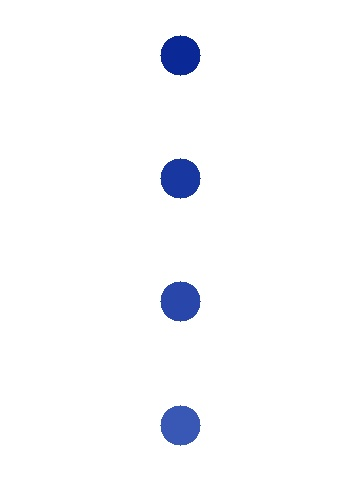
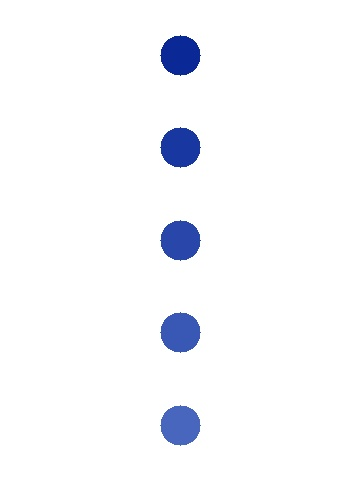
ai agent printing demo 2 colors

Changed region(s): [[0.4278, 0.25, 0.5806, 0.75]]

diff --git a/src/agents/vial_print_tools.py b/src/agents/vial_print_tools.py
@@ -106,6 +106,8 @@ def _apply_params(
     droplet_volume_ul: Optional[float] = None,
     num_replicates: Optional[int] = None,
     paper_start_column: Optional[int] = None,
+    orange_plate_column: Optional[int] = None,
+    blue_plate_column: Optional[int] = None,
     advanced_updates: Optional[dict] = None,
     default_folds: Optional[list] = None,
 ) -> Tuple[dict, list]:
@@ -164,6 +166,8 @@ def _apply_params(
             warnings.append(f"num_replicates {r} < 1; set to 1.")
             r = 1
         cfg["printing"]["num_replicates"] = r
+        for series in cfg.get("color_series", []) or []:
+            series["num_replicates"] = r
 
     # 4. Paper start column.
     if paper_start_column is not None:
@@ -173,13 +177,71 @@ def _apply_params(
             col = max(1, min(col, 12))
         cfg["printing"]["paper_start_column"] = col
 
-    # 5. Free-form nested overrides (any documented YAML key).
+    # 5. Per-color plate columns for the dual-color workflow.
+    requested_color_columns = {
+        "orange": orange_plate_column,
+        "blue": blue_plate_column,
+    }
+    for color, requested_col in requested_color_columns.items():
+        if requested_col is None:
+            continue
+        col = int(requested_col)
+        if not (1 <= col <= 12):
+            warnings.append(f"{color}_plate_column {col} out of range; clamped to [1, 12].")
+            col = max(1, min(col, 12))
+        matched = False
+        for series in cfg.get("color_series", []) or []:
+            if str(series.get("name", "")).lower() == color:
+                series["destination_column"] = str(col)
+                matched = True
+                break
+        if not matched:
+            warnings.append(
+                f"could not find {color!r} in color_series; plate column was not changed."
+            )
+
+    # 6. Free-form nested overrides (any documented YAML key).
     if advanced_updates:
         cfg = merge_user_updates(cfg, advanced_updates)
         # Re-sync the CV count if the caller changed the factor block directly.
         cfg.setdefault("cv", {})["expected_droplets"] = _num_dilutions(cfg)
 
     return cfg, warnings
+
+
+def _paper_columns(start_column, num_replicates) -> str:
+    start = int(start_column)
+    reps = int(num_replicates)
+    end = start + reps - 1
+    return str(start) if reps == 1 else f"{start}-{end}"
+
+
+def _resolve_series(cfg: dict) -> list[dict]:
+    """Return explicit color series, or a legacy single-series fallback."""
+    pr = cfg.get("printing", {})
+    series = copy.deepcopy(cfg.get("color_series") or [])
+    if series:
+        return series
+    sources = cfg.get("sources", {})
+    return [{
+        "name": "single",
+        "dye_vial": sources.get("food_coloring_vial", sources.get("blue_dye_vial", "A2")),
+        "destination_column": pr.get("source_column", cfg.get("dilution", {}).get("destination_column", "9")),
+        "setup_tip": cfg.get("dilution", {}).get("setup_tip", "H12"),
+        "print_block_column": pr.get("print_block_column", 1),
+        "paper_start_column": pr.get("paper_start_column", 1),
+        "num_replicates": pr.get("num_replicates", 1),
+    }]
+
+
+def _series_summary_line(series: dict) -> str:
+    return (
+        f"{series.get('name')} vial {series.get('dye_vial')} -> plate column "
+        f"{series.get('destination_column')} -> paper columns "
+        f"{_paper_columns(series.get('paper_start_column', 1), series.get('num_replicates', 1))}; "
+        f"stock tip {series.get('setup_tip')}, print block column "
+        f"{series.get('print_block_column')}"
+    )
 
 
 def _soft_validate(cfg: dict) -> list:
@@ -225,17 +287,28 @@ def _soft_validate(cfg: dict) -> list:
 def _summary(cfg: dict) -> str:
     dil = cfg.get("dilution", {})
     pr  = cfg.get("printing", {})
+    deck = cfg.get("deck", {})
+    sources = cfg.get("sources", {})
+    series = _resolve_series(cfg)
     factors = _resolve_factors(dil.get("factors", {}))
     folds = ", ".join(f"{f:g}x" for f in factors)
     rm = cfg.get("run_modes", {})
+    series_lines = "\n".join(f"    - {_series_summary_line(item)}" for item in series)
+    reps_summary = ", ".join(
+        f"{item.get('name')}={item.get('num_replicates')}" for item in series
+    )
     return (
         "Vial-dilution-print working config\n"
-        f"  Dilutions      : {len(factors)} wells in plate column {dil.get('destination_column')} "
-        f"(folds: {folds})\n"
+        f"  Deck           : vial rack slot {deck.get('tuberack', {}).get('slot')}, "
+        f"plate slot {deck.get('plate', {}).get('slot')}, paper slot "
+        f"{deck.get('paper', {}).get('slot')}, tips slot {deck.get('tiprack', {}).get('slot')}\n"
+        f"  Vials          : water {sources.get('water_vial')}, "
+        f"orange {sources.get('orange_dye_vial')}, blue {sources.get('blue_dye_vial')}\n"
+        f"  Dilutions      : {len(factors)} wells per color series (folds: {folds})\n"
+        f"  Color series   :\n{series_lines}\n"
         f"  Total / well   : {dil.get('total_volume_ul')} uL, mix {dil.get('mix_reps')}x\n"
         f"  Droplet volume : {pr.get('droplet_volume_ul')} uL/channel\n"
-        f"  Replicates     : {pr.get('num_replicates')} starting at paper column "
-        f"{pr.get('paper_start_column')} (x-spacing "
+        f"  Replicates     : {reps_summary} (x-spacing "
         f"{pr.get('replicate_spacing_mm', {}).get('x')} mm)\n"
         f"  Print release  : air gap {pr.get('air_gap_ul')} uL, z {pr.get('dispense_z_mm')} mm, "
         f"blow_out={pr.get('blow_out')}, dwell={pr.get('post_dispense_delay_s')} s\n"
@@ -319,6 +392,8 @@ def update_vial_print_params(
     droplet_volume_ul: Optional[float] = None,
     num_replicates: Optional[int] = None,
     paper_start_column: Optional[int] = None,
+    orange_plate_column: Optional[int] = None,
+    blue_plate_column: Optional[int] = None,
     advanced_updates: Optional[dict] = None,
 ) -> str:
     """Adjust the demo's parameters from natural language.
@@ -330,6 +405,8 @@ def update_vial_print_params(
         droplet_volume_ul: Volume dispensed per channel per replicate (uL).
         num_replicates: How many times the column is printed across the paper (>=1).
         paper_start_column: Leftmost paper column for the first replicate (1-12).
+        orange_plate_column: 96-well plate column for the orange dilution series (1-12).
+        blue_plate_column: 96-well plate column for the blue dilution series (1-12).
         advanced_updates: Optional nested dict for any other documented YAML key,
             e.g. {"dilution": {"total_volume_ul": 180}} or
             {"dilution": {"factors": {"explicit": [1, 3, 9, 27]}}}.
@@ -345,12 +422,15 @@ def update_vial_print_params(
         droplet_volume_ul,
         num_replicates,
         paper_start_column,
+        orange_plate_column,
+        blue_plate_column,
         advanced_updates,
     )):
         return "No changes requested. Current config:\n\n" + _summary(_WORKING)
     cfg, warnings = _apply_params(
         _WORKING, num_dilutions, droplet_volume_ul, num_replicates,
-        paper_start_column, advanced_updates, default_folds=_DEFAULT_FOLDS)
+        paper_start_column, orange_plate_column, blue_plate_column,
+        advanced_updates, default_folds=_DEFAULT_FOLDS)
     _WORKING = cfg
     out = ["Config updated.\n", _summary(cfg)]
     soft = _soft_validate(cfg)
@@ -373,15 +453,28 @@ def preview_dilution_plan() -> str:
         return "Error: no config loaded. Call load_vial_print_defaults first."
     dil = _WORKING.get("dilution", {})
     total = float(dil.get("total_volume_ul", 0) or 0)
-    col = dil.get("destination_column", "1")
     factors = _resolve_factors(dil.get("factors", {}))
-    lines = [f"Dilution plan (column {col}, {total:g} uL/well):"]
-    for i, f in enumerate(factors):
-        row = chr(ord("A") + i)
-        stock = round(total / f, 2) if f else 0.0
-        water = round(total - stock, 2)
-        flag = "  (below ~20 uL accurate min)" if 0 < stock < 20 else ""
-        lines.append(f"  {row}{col}: {f:g}x  stock={stock:g} uL  water={water:g} uL{flag}")
+    series = _resolve_series(_WORKING)
+    water_vial = _WORKING.get("sources", {}).get("water_vial")
+    lines = [
+        f"Dilution plan ({total:g} uL/well, water vial {water_vial}; folds shared by each color):"
+    ]
+    for item in series:
+        col = item.get("destination_column", dil.get("destination_column", "1"))
+        lines.append(
+            f"  {item.get('name')} series: dye vial {item.get('dye_vial')} -> "
+            f"plate column {col}; paper columns "
+            f"{_paper_columns(item.get('paper_start_column', 1), item.get('num_replicates', 1))}"
+        )
+        for i, f in enumerate(factors):
+            row = chr(ord("A") + i)
+            stock = round(total / f, 2) if f else 0.0
+            water = round(total - stock, 2)
+            flag = "  (below ~20 uL accurate min)" if 0 < stock < 20 else ""
+            lines.append(
+                f"    {row}{col}: {f:g}x  {item.get('name')} stock={stock:g} uL  "
+                f"water={water:g} uL{flag}"
+            )
     return "\n".join(lines)
 
 

diff --git a/src/agents/vial_print_agent.py b/src/agents/vial_print_agent.py
@@ -72,17 +72,24 @@ SYSTEM_PROMPT = (
     "You are a Senior Laboratory Automation Engineer running the Opentrons OT-2 "
     "'vial dilution -> 8-channel paper print' demo. You drive the demo end to end "
     "from the user's natural language.\n\n"
-    "WHAT THE DEMO DOES: draw water + food colouring from two 20 mL glass vials, "
-    "build an 8-step (configurable) dilution series down one column of a 96-well "
-    "plate, then pick up an 8-tip block and 'print' that column onto paper as "
-    "simultaneous droplets. Tips are RETURNED, not trashed.\n\n"
-    "THE FOUR KNOBS the user adjusts (map them with update_vial_print_params):\n"
+    "WHAT THE DEMO DOES: draw water + two dyes from 20 mL glass vials, build TWO "
+    "8-step (configurable) dilution series in one 96-well plate, then pick up "
+    "8-tip blocks and print those columns onto paper as simultaneous droplets. "
+    "The default dual-color plan is orange dye from vial A3 into plate column 11, "
+    "printed on paper columns 1-3, and blue dye from vial A2 into plate column 9, "
+    "printed on paper columns 4-6. Water is vial A1. Tips are RETURNED, not "
+    "trashed.\n\n"
+    "COMMON KNOBS the user adjusts (map them with update_vial_print_params):\n"
     "  - number of dilutions (1-8): dilution wells = simultaneous droplets per print.\n"
     "  - droplet volume (uL): liquid dispensed per channel per replicate.\n"
     "  - number of replicates (>=1): how many times the column prints across paper.\n"
     "  - paper start column (1-12): first paper column used for printing.\n"
-    "For anything else (fold strengths, total volume, mix reps, columns) use "
-    "update_vial_print_params(advanced_updates=...).\n\n"
+    "  - orange_plate_column and blue_plate_column: per-color plate columns.\n"
+    "For anything else (fold strengths, total volume, mix reps, dye vials, plate "
+    "columns, per-color paper columns, or per-color tips) use "
+    "update_vial_print_params(advanced_updates=...). Never tell the user the "
+    "workflow is single-color or single-column unless show_vial_print_config() "
+    "proves color_series is absent.\n\n"
     "MANDATORY PIPELINE ORDER — never skip or reorder:\n"
     "  1. load_vial_print_defaults() first.\n"
     "  2. update_vial_print_params(...) for the user's requested changes.\n"
@@ -101,8 +108,9 @@ SYSTEM_PROMPT = (
     "  D. check_robot_http_api() to verify the robot server HTTP API is online.\n"
     "  E. Present a PRE-RUN SUMMARY: protocol path + SHA256, robot IP, deck layout "
     "     (vial rack slot 7, plate slot 4, paper slot 5, tips slot 9), pipette, "
-    "     number of dilutions, droplets per print, replicates, droplet volume, "
-    "     air gap, tip height, blow out, paper start column, and image pullback "
+    "     water/orange/blue vial positions, orange and blue plate columns, orange "
+    "     and blue paper columns, number of dilutions, droplets per print, "
+    "     replicates, droplet volume, air gap, tip height, blow out, and image pullback "
     "     (/data/vision/vial_dilution_print -> vision_runs/vial_dilution_print).\n"
     "  F. MANDATORY: ask the user to reply with exactly 'RUN ROBOT' to proceed.\n"
     "  G. Only after 'RUN ROBOT': call run_vial_print_robot_http("
@@ -326,9 +334,15 @@ def parse_request(text: str) -> dict:
     m = re.search(r"(\d+)\s*replicate", t)
     if m:
         out["num_replicates"] = int(m.group(1))
-    m = re.search(r"(?:paper\s*)?(?:start\s*)?column\s*(\d+)", t)
+    m = re.search(r"(?:paper\s+(?:start\s*)?column|start\s+column)\s*(\d+)", t)
     if m:
         out["paper_start_column"] = int(m.group(1))
+    m = re.search(r"orange(?:\s+(?:plate|96[-\s]?well|well))?\s+column\s*(\d+)", t)
+    if m:
+        out["orange_plate_column"] = int(m.group(1))
+    m = re.search(r"blue(?:\s+(?:plate|96[-\s]?well|well))?\s+column\s*(\d+)", t)
+    if m:
+        out["blue_plate_column"] = int(m.group(1))
     # droplet volume: a number directly followed by a microlitre unit.
     m = re.search(r"(\d+(?:\.\d+)?)\s*(?:u\s*l|µl|ul|microlit\w*)\b", t)
     if m:

diff --git a/tests/test_vial_print_agent.py b/tests/test_vial_print_agent.py
@@ -111,6 +111,52 @@ def test_default_config_prints_orange_and_blue_series(default_cfg):
     assert series[0]["paper_start_column"] < series[1]["paper_start_column"]
 
 
+def test_agent_summary_exposes_dual_color_series(default_cfg):
+    summary = vpt._summary(default_cfg)
+
+    assert "orange vial A3 -> plate column 11" in summary
+    assert "blue vial A2 -> plate column 9" in summary
+    assert "paper columns 1-3" in summary
+    assert "paper columns 4-6" in summary
+
+
+def test_preview_dilution_plan_exposes_dual_color_wells(default_cfg):
+    vpt._WORKING = default_cfg
+    try:
+        plan = vpt.preview_dilution_plan.invoke({})
+    finally:
+        vpt._WORKING = None
+
+    assert "orange series: dye vial A3 -> plate column 11" in plan
+    assert "blue series: dye vial A2 -> plate column 9" in plan
+    assert "A11: 1x" in plan
+    assert "A9: 1x" in plan
+
+
+def test_replicate_knob_updates_each_color_series(default_cfg, default_folds):
+    cfg, _ = vpt._apply_params(
+        default_cfg,
+        num_replicates=2,
+        default_folds=default_folds,
+    )
+
+    assert cfg["printing"]["num_replicates"] == 2
+    assert [item["num_replicates"] for item in cfg["color_series"]] == [2, 2]
+
+
+def test_color_plate_column_knobs_update_named_series(default_cfg, default_folds):
+    cfg, _ = vpt._apply_params(
+        default_cfg,
+        orange_plate_column=12,
+        blue_plate_column=8,
+        default_folds=default_folds,
+    )
+    by_name = {item["name"]: item for item in cfg["color_series"]}
+
+    assert by_name["orange"]["destination_column"] == "12"
+    assert by_name["blue"]["destination_column"] == "8"
+
+
 def test_simulation_only_agent_toolset_excludes_robot_tools():
     names = {tool.name for tool in get_vial_print_tools(simulation_only=True)}
     assert "build_vial_print_protocol" in names
@@ -132,12 +178,26 @@ def test_soft_validate_flags_tip_block_overlap(default_cfg, default_folds):
 
 
 def test_parse_request_extracts_three_knobs():
-    knobs = parse_request("set up 5 dilutions, 20 uL droplets, 3 replicates, paper column 1")
+    knobs = parse_request(
+        "set up 5 dilutions, 20 uL droplets, 3 replicates, paper column 1, "
+        "orange column 12, blue column 9"
+    )
     assert knobs == {
         "num_dilutions": 5,
         "droplet_volume_ul": 20.0,
         "num_replicates": 3,
         "paper_start_column": 1,
+        "orange_plate_column": 12,
+        "blue_plate_column": 9,
+    }
+
+
+def test_parse_request_does_not_treat_color_column_as_paper_column():
+    knobs = parse_request("use orange column 12 and blue column 9")
+
+    assert knobs == {
+        "orange_plate_column": 12,
+        "blue_plate_column": 9,
     }
 
 
